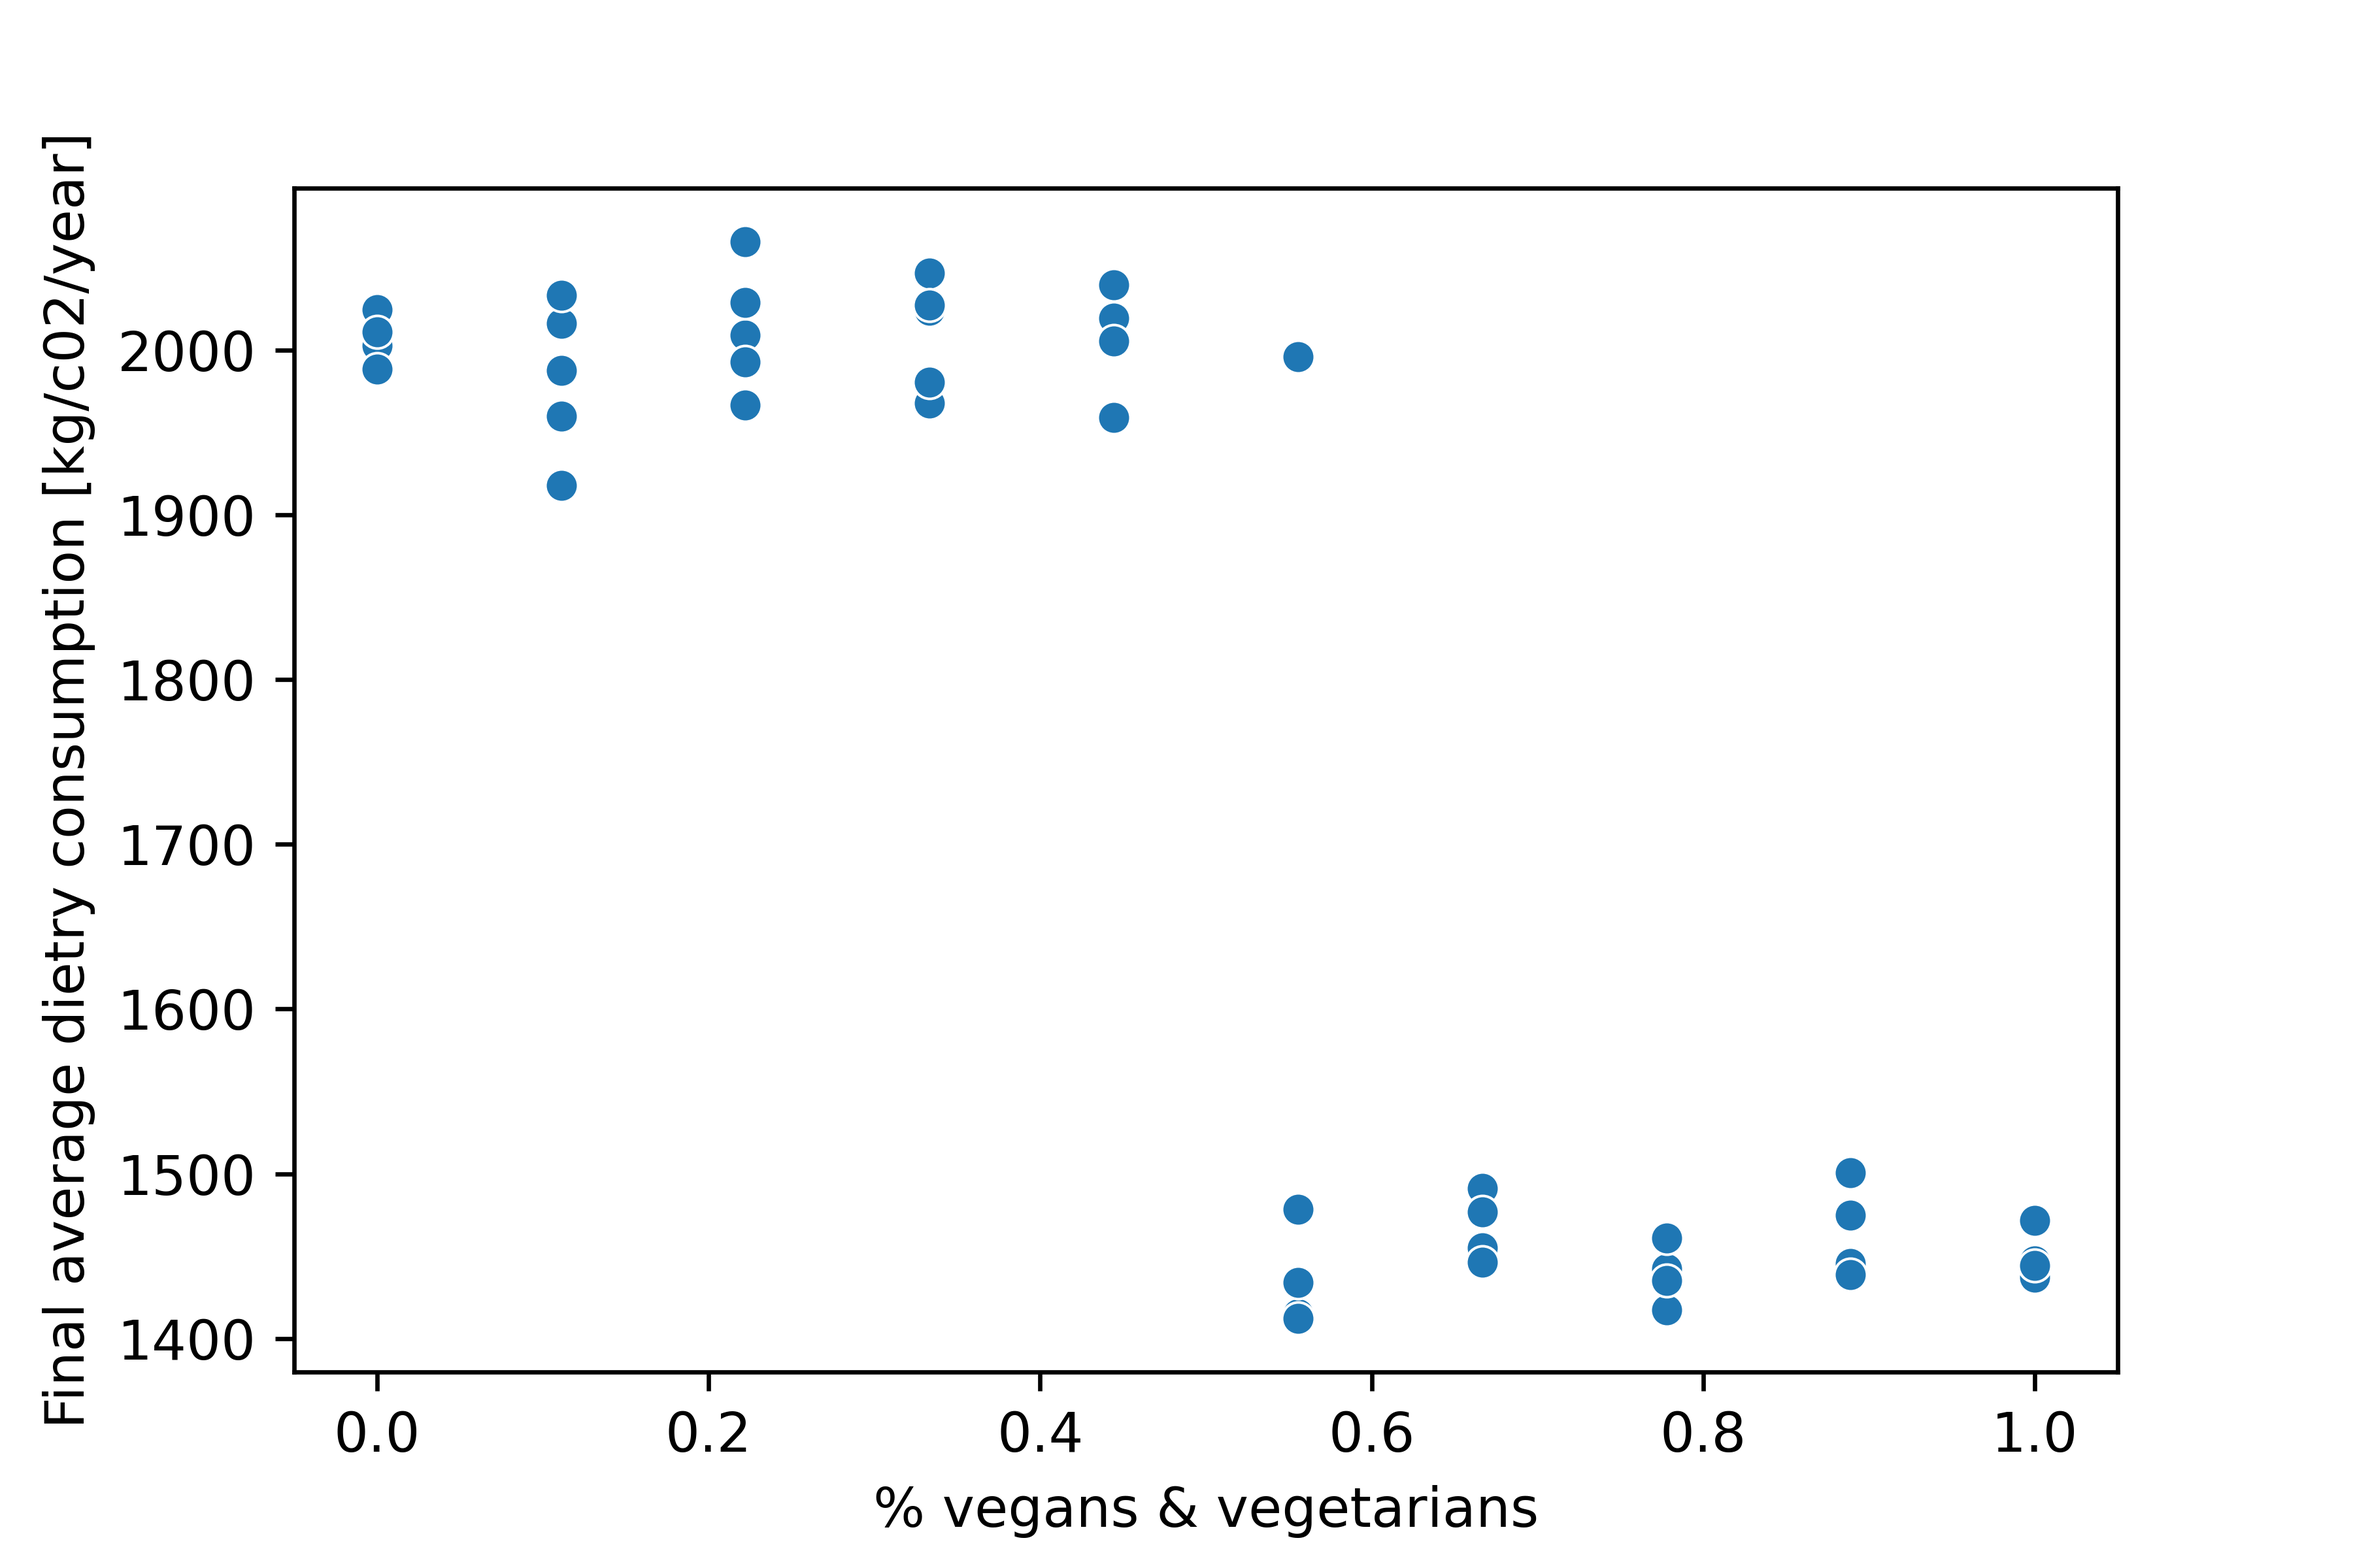
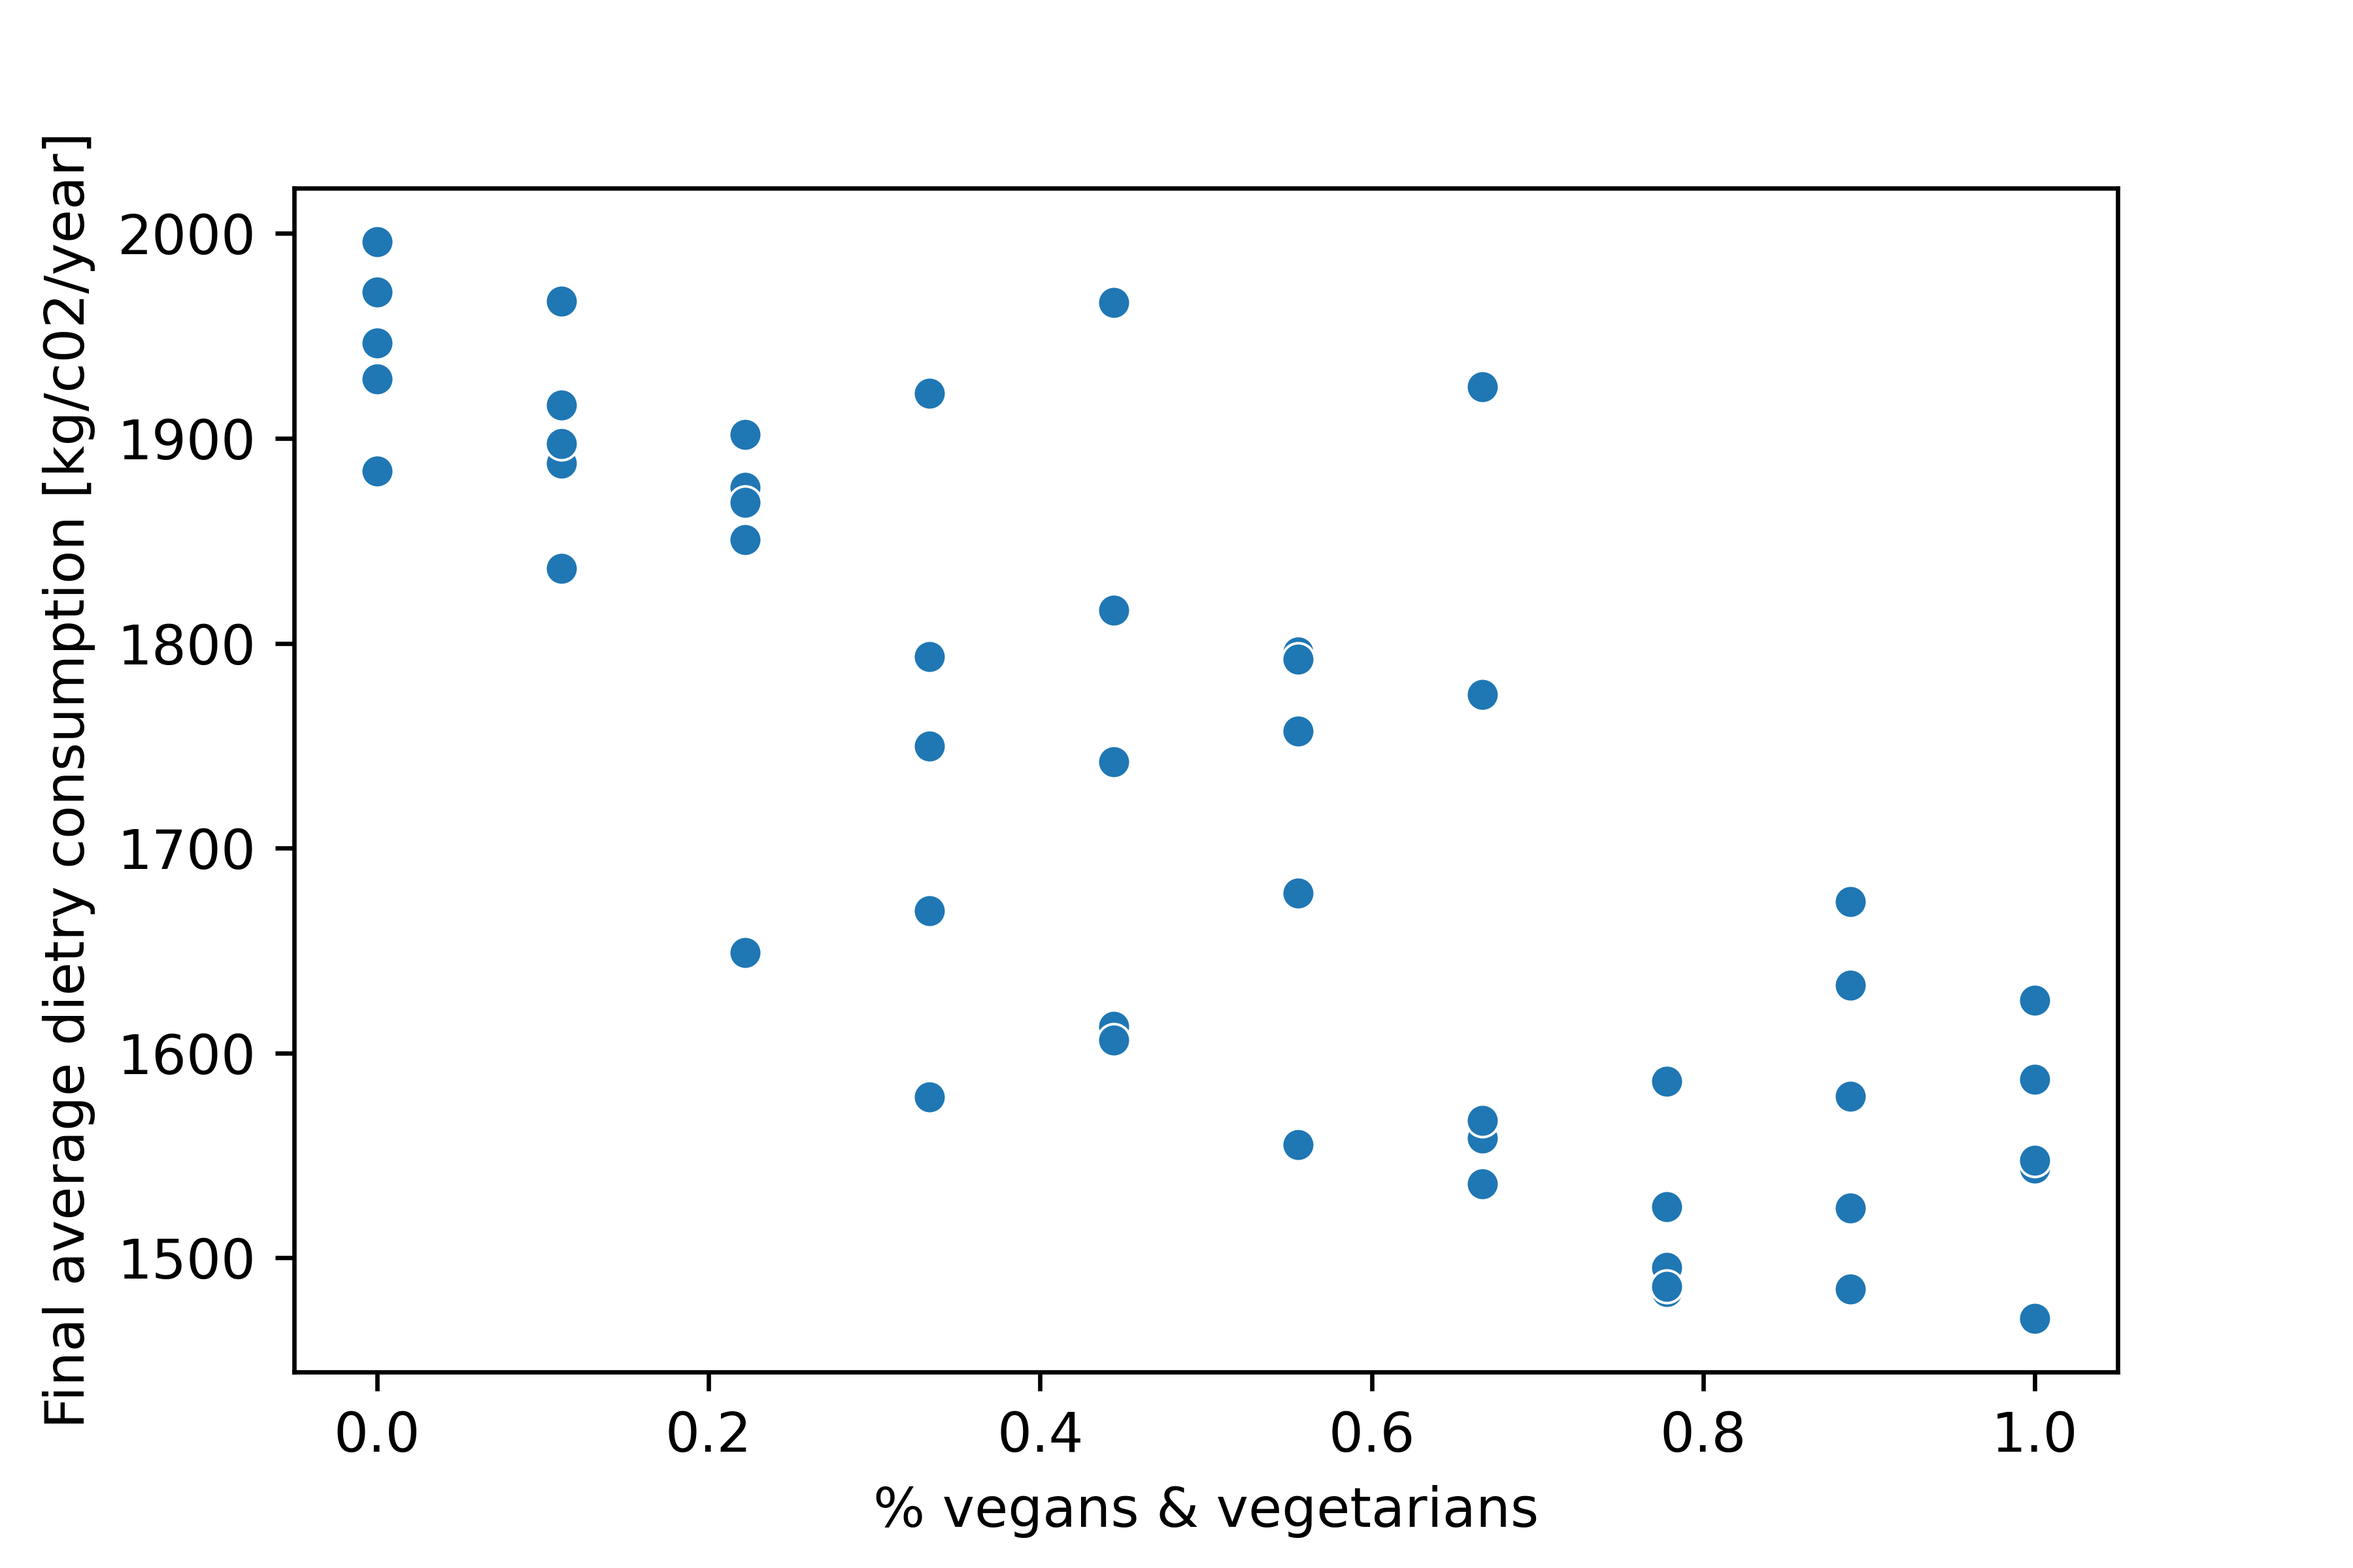
fixed dissonance function, now using dissonance_new

diff --git a/model_src/model_main.py b/model_src/model_main.py
@@ -83,61 +83,76 @@ class Agent():
             float: the probability of change
         """
     
-        #actually utility, mode means whether calcing sam diet or opposit 
+        #actually utility, if you don;t change, mode means whether calcing same diet or opposite 
         u_i = self.calc_utility(mode = "same")
         
-        #utlity shadow - alternative utlity
+        #utlity shadow - alternative utlity - if agent were to change
         u_s = self.calc_utility(mode = "diff")
         
     
-        prob_switch = 1/(1+math.exp(-3*(u_s-u_i)))
+        prob_switch = 1/(1+math.exp(-4*(u_s-u_i)))
         #print(f"u_s: {u_s}, u_i: {u_i}, Switching p: {prob_switch}")
      
         return prob_switch
     
-    def dissonance(self, case, mode):
+    # def dissonance(self, case, mode):
         
         
+        
+    #     if mode == "same":
+    #         diet = self.diet
+    #     #if mode diff
+    #     else:
+    #         diet = "meat" if self.diet == "veg" else "veg"
+            
+    #     #uses the discrete dissonance function
+        
+    #     if case == "simple":
+            
+    #         diet == "veg":
+    #             #norm from 0-1 means you prefer veg inherently 
+    #         if self.individual_norm >= 0:
+    #             sign = 1
+    #         else:
+    #             sign = -1
+                    
+    #         # elif diet == "meat":    
+                
+    #         #     if self.individual_norm >= 0:
+    #         #         sign = -1
+    #         #     else:
+    #         #         sign = 1
+    #         # else: 
+    #         # return ValueError("This " + self.diet +" diet is not defined!")
+            
+    #         return sign * self.individual_norm
+        
+    #     #uses the sigmoid function to calculate dissonance
+    #     elif case == "sigmoid":
+    #         current_diet = 1 if self.diet == "veg" else -1
+    #         # The devision of 0.4621171572600098 is to normalize the sigmoid function in the interval of[-1,1].
+    #         return (2/(1+math.exp(-1*(self.individual_norm*current_diet)))-1)/0.46
+
+    #     else:
+    #         return ValueError("You can only select form either 'simple' or 'sigmoid'. ")
+
+
+    def dissonance_new(self, case, mode):
         
         if mode == "same":
             diet = self.diet
-        #if mode diff
+       
         else:
             diet = "meat" if self.diet == "veg" else "veg"
-            
-        #uses the discrete dissonance function
         
-        if case == "simple":
-            
-            if diet == "veg":
-                #norm from 0-1 means you prefer veg inherently 
-                if self.individual_norm >= 0:
-                    sign = 1
-                else:
-                    sign = -1
-                    
-            elif diet == "meat":    
-                
-                if self.individual_norm >= 0:
-                    sign = -1
-                else:
-                    sign = 1
-            else: 
-                return ValueError("This " + self.diet +" diet is not defined!")
-            
-            return sign * self.individual_norm
-        
-        #uses the sigmoid function to calculate dissonance
-        elif case == "sigmoid":
-            current_diet = 1 if self.diet == "veg" else -1
-            # The devision of 0.4621171572600098 is to normalize the sigmoid function in the interval of[-1,1].
-            return (2/(1+math.exp(-1*(self.individual_norm*current_diet)))-1)/0.46
-
+        if diet == "veg":
+            return self.individual_norm
         else:
-            return ValueError("You can only select form either 'simple' or 'sigmoid'. ")
-
-
-
+            return -1*self.individual_norm
+        
+        
+        
+        
         
         
     def select_node(self, i, G, i_x=None):
@@ -228,7 +243,7 @@ class Agent():
     def calc_utility(self, mode):
        
         #TODO: reformulate this to use similar agents  
-        util = self.alpha*(2*self.get_ratio(mode)-1) #- self.beta*self.global_norm)
+        util = self.alpha*(2*self.get_ratio(mode)-1) + self.beta*self.dissonance_new("simple", mode)#- self.beta*self.global_norm)
         
         
         #util_first_order = self.dissonance("simple", mode) + self.get_ratio(mode)

diff --git a/model_src/model_runn.py b/model_src/model_runn.py
@@ -16,7 +16,7 @@ import time
 
 params = {"veg_CO2": 1390,
           "meat_CO2": 2054,
-          "N": 100,
+          "N": 200,
           "erdos_p": 3,
           "steps":2000,
           "w_i": 5, #weight of the replicator function
@@ -70,6 +70,8 @@ def parameter_sweep(params, param_to_vary, num_iterations, param_min, param_max,
             
             params.update({param_to_vary: p})
             test_model = run_model(params)
+            #trajec_end = test_model.fraction_veg[-1:]
+
             trajec_end = test_model.system_C[-1:]
             runs.append([trajec_end, p])
     
